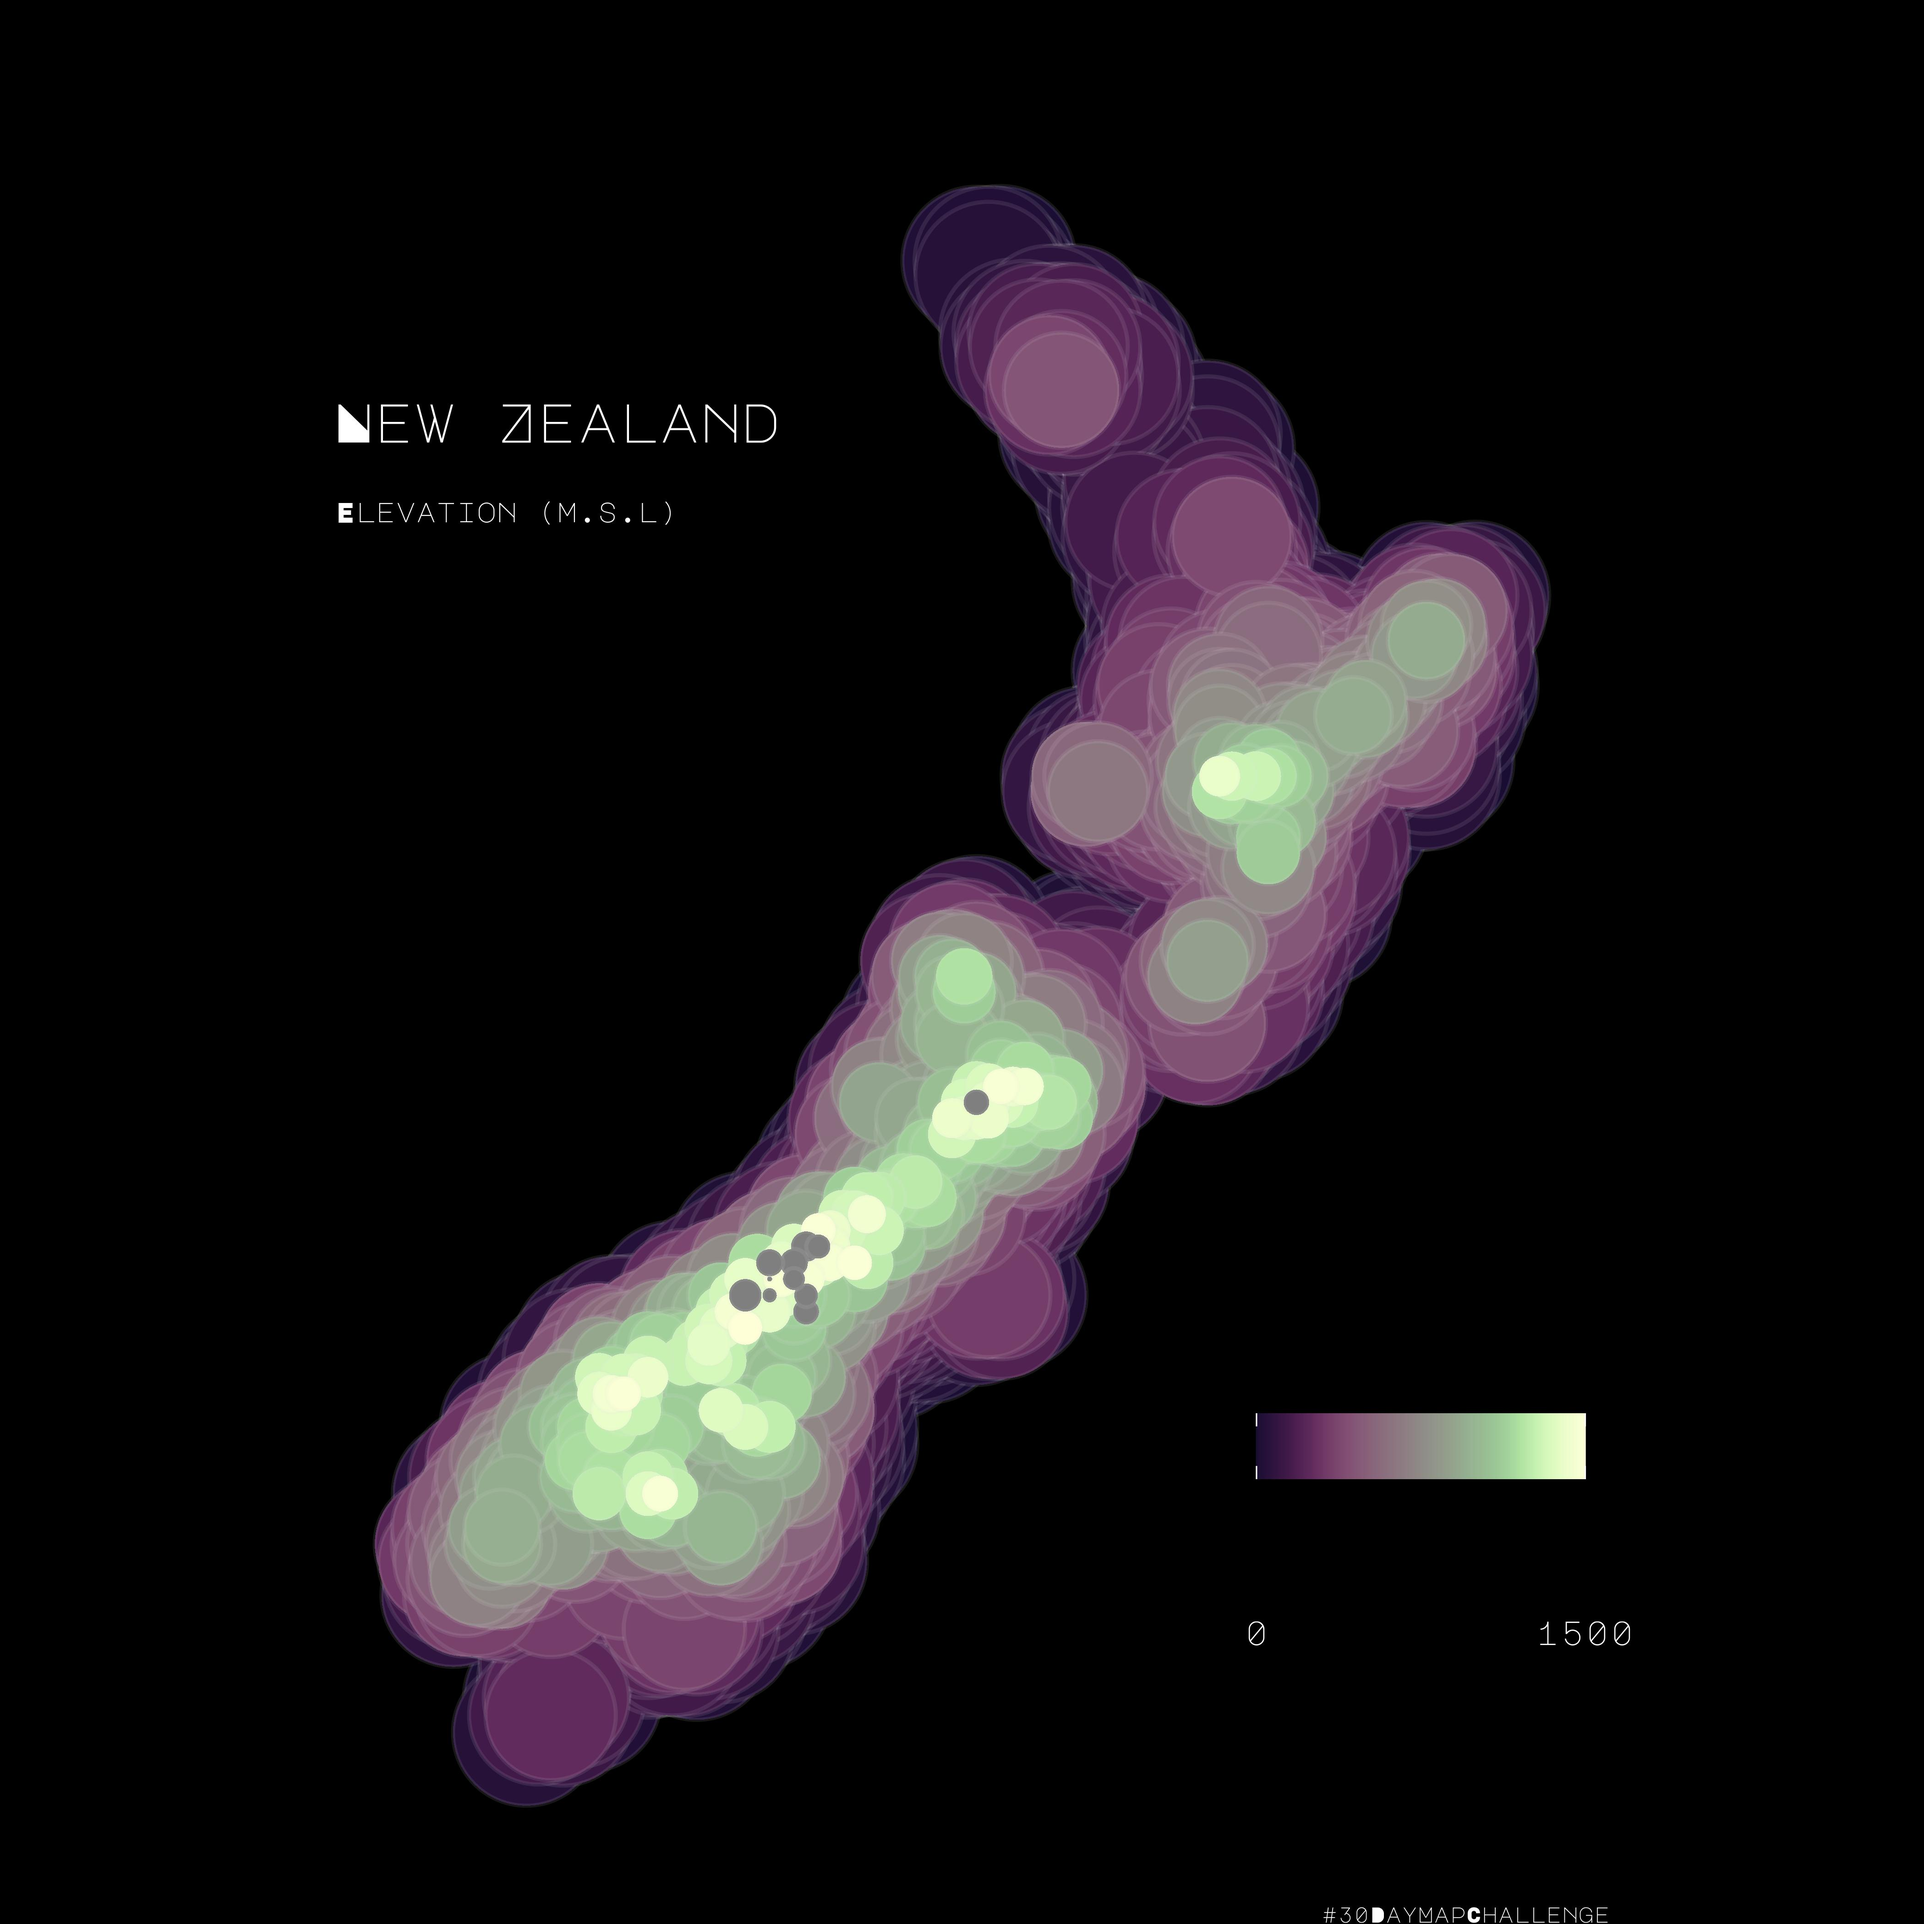
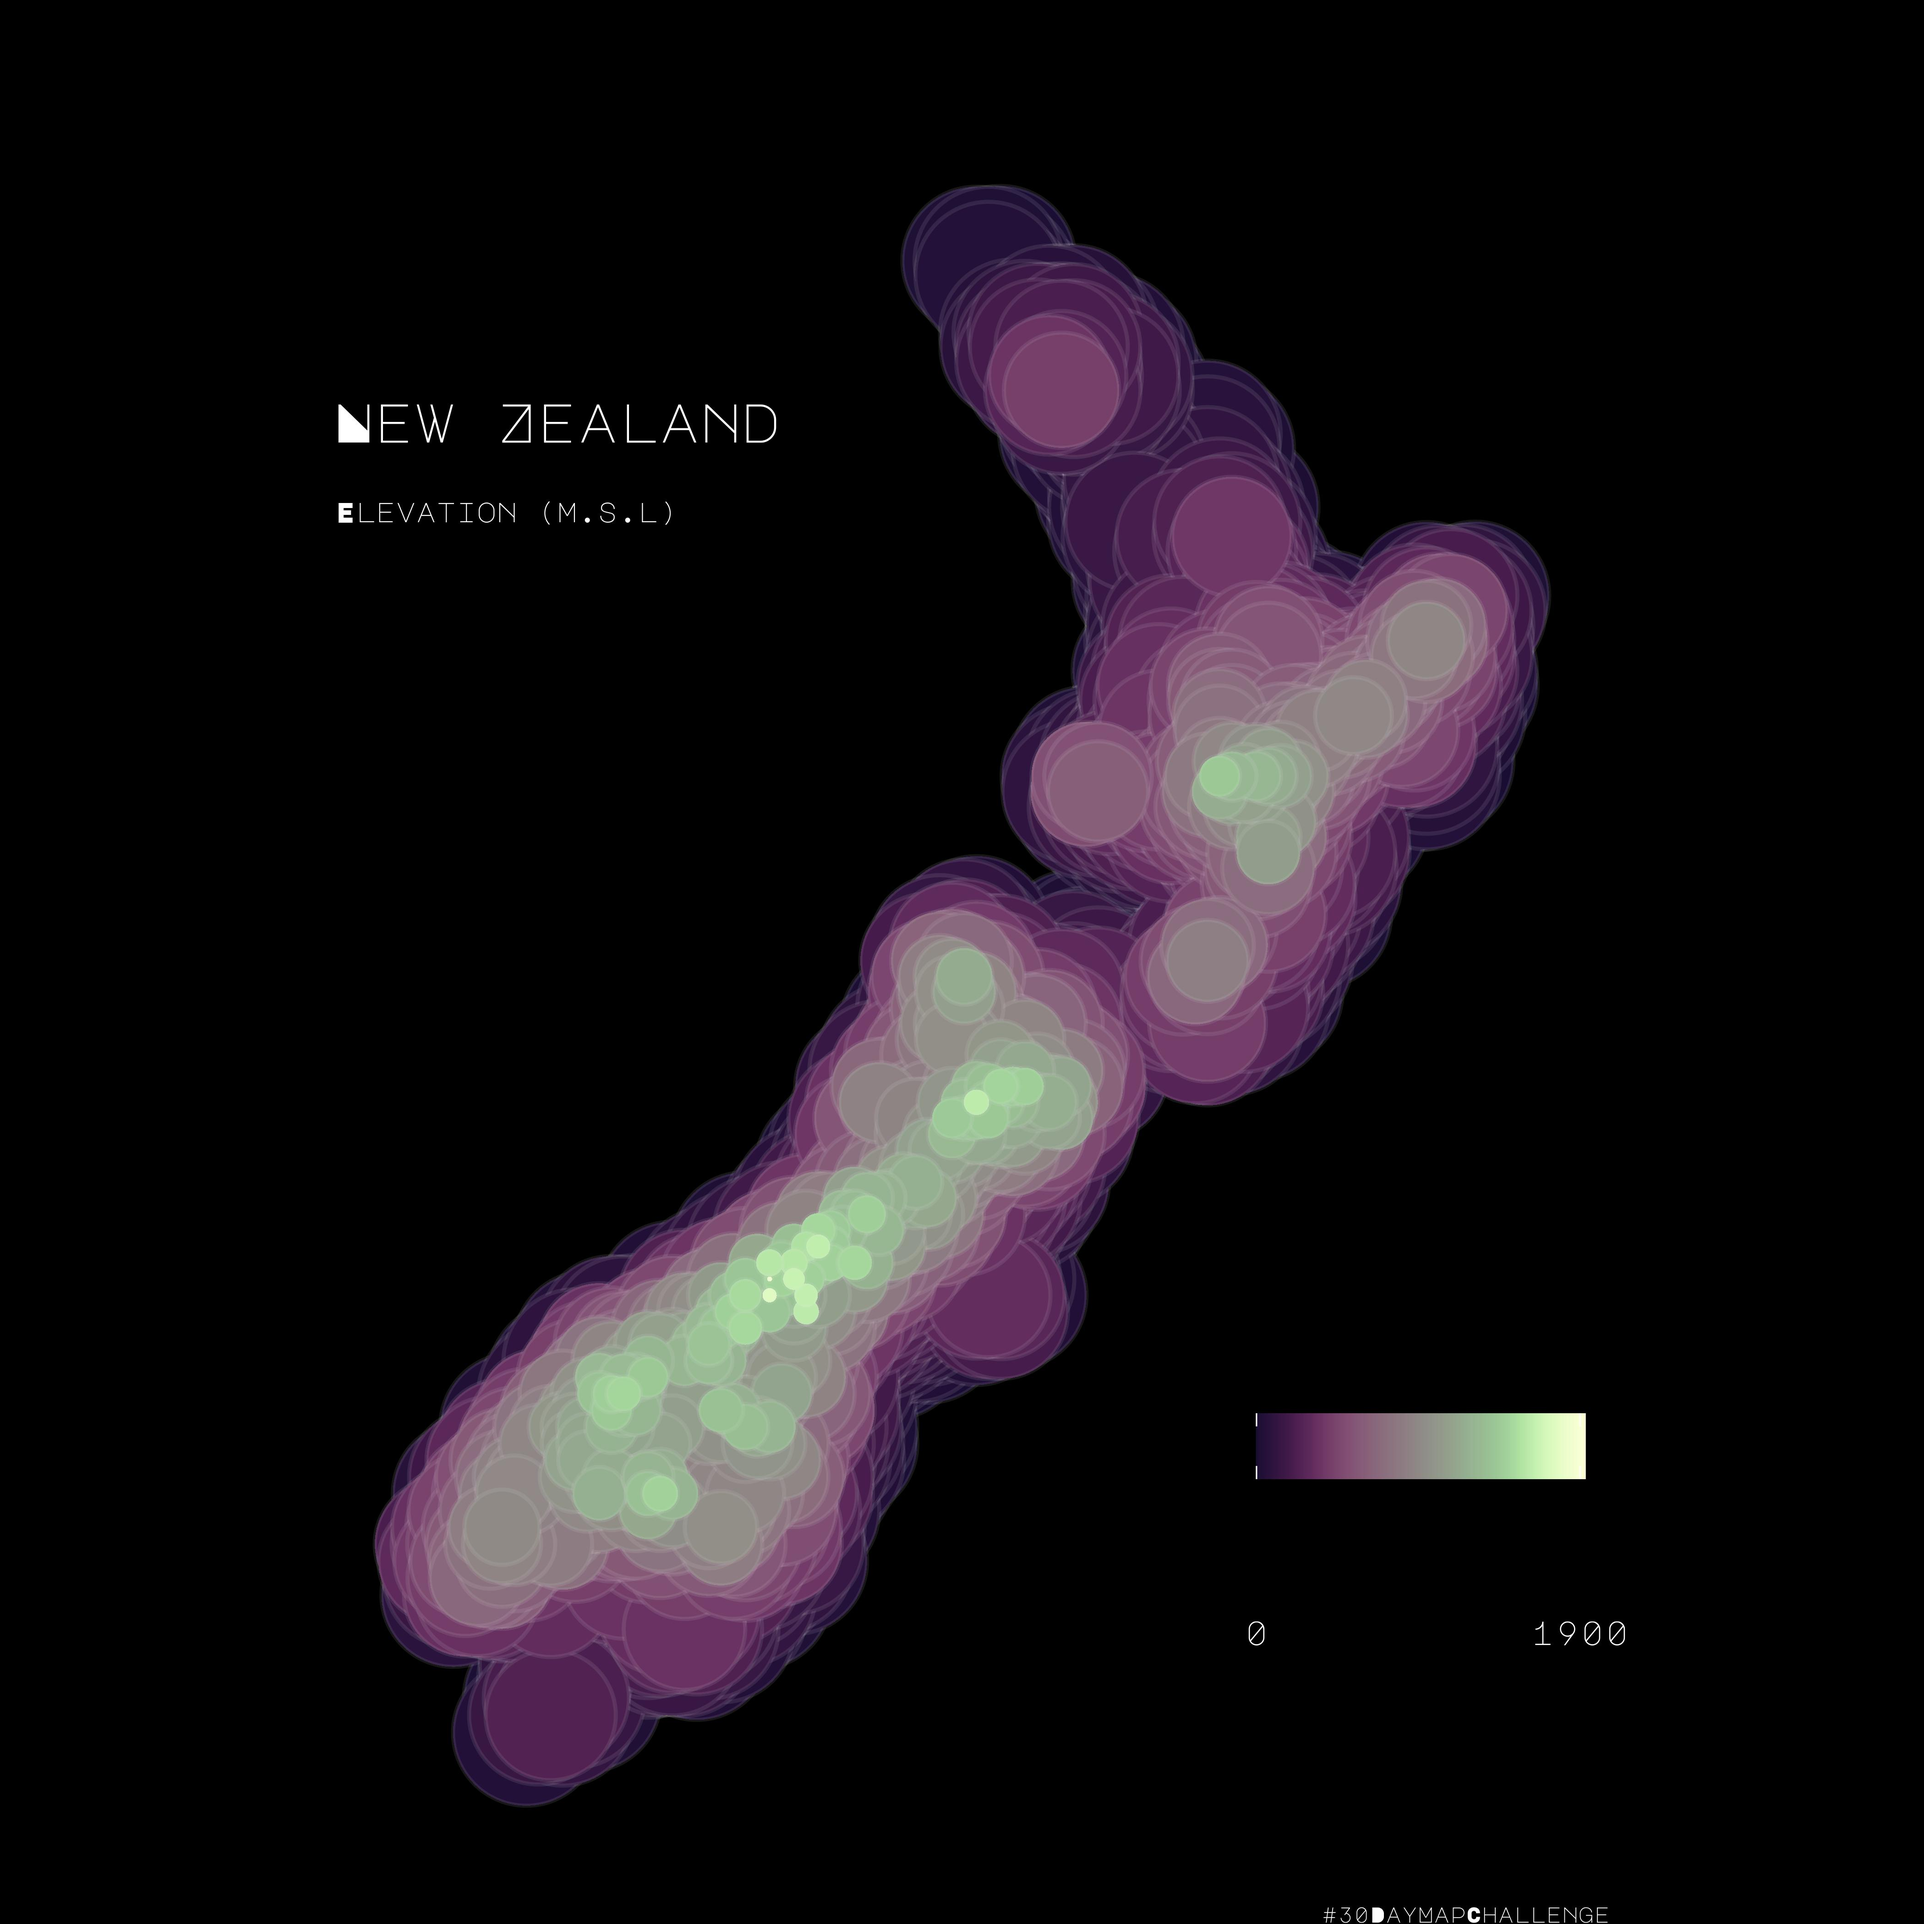
Added new Kaka colur palette!

Changed region(s): [[0.2183, 0.4679, 0.5926, 0.8421], [0.5302, 0.2807, 0.7798, 0.5302], [0.811, 0.8421, 0.8421, 0.8733]]

diff --git a/README.md b/README.md
@@ -12,4 +12,4 @@ Some 30 Day Map challange maps. Let's see how we get on. I'm hoping to make sure
 
 ## Day3 - Polygons:
 
-![Global Elevation Points](/exports/NZ_bufferedElevation.jpg)
+![Global Elevation Points](/exports/NZ_bufferedElevationKAKA.jpg)
